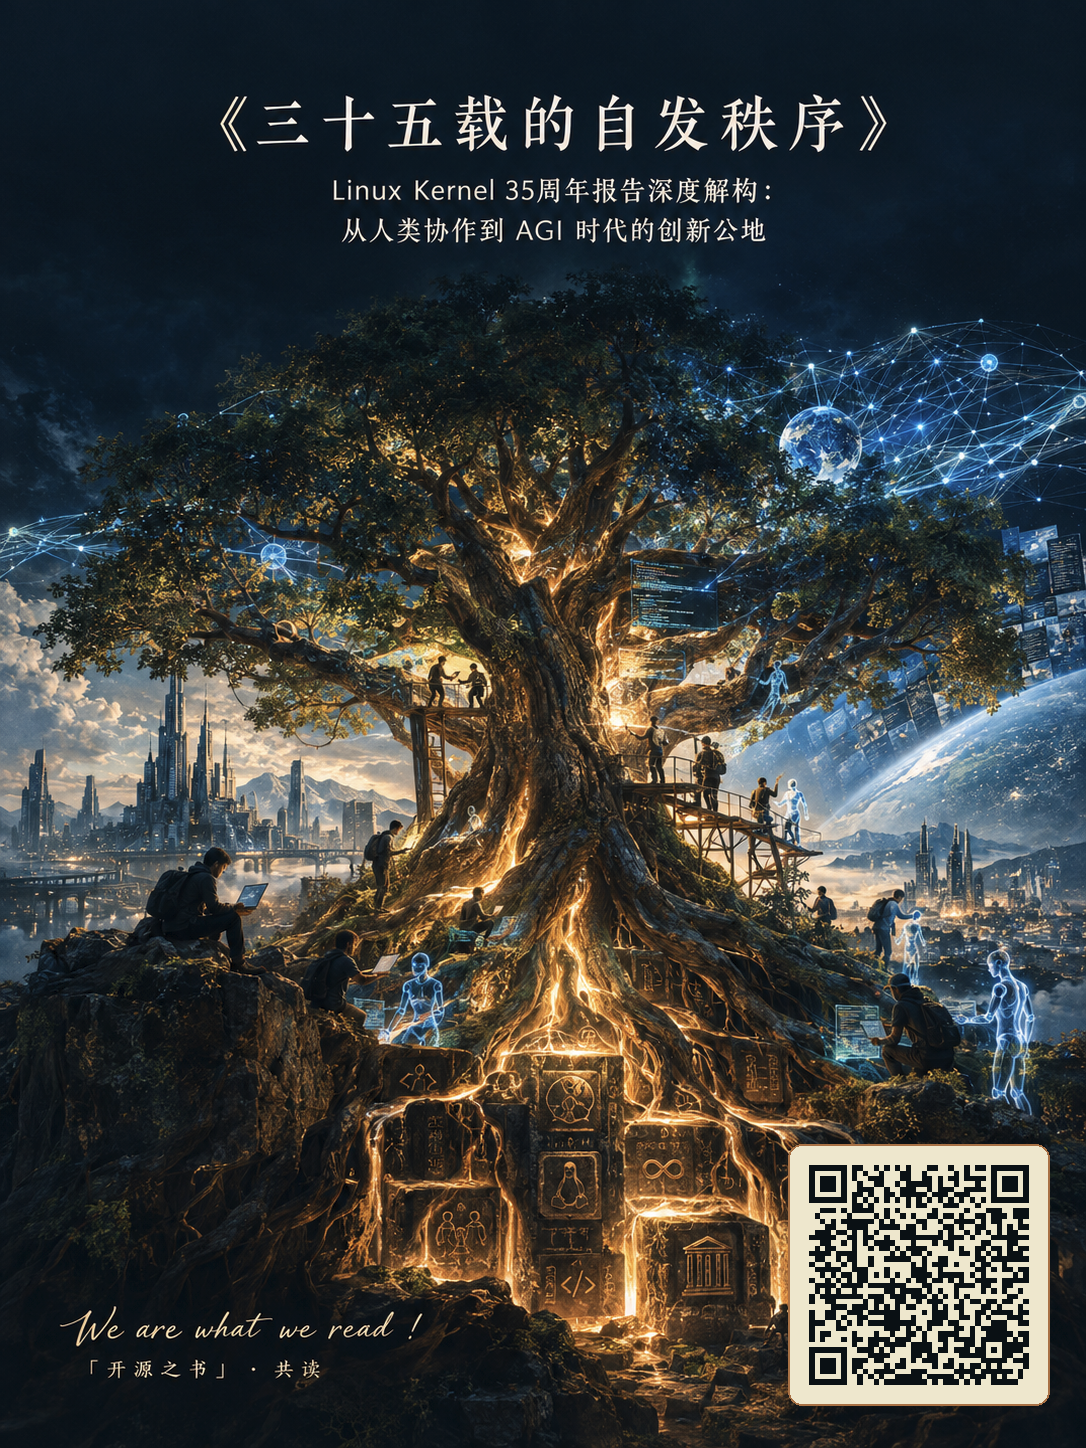
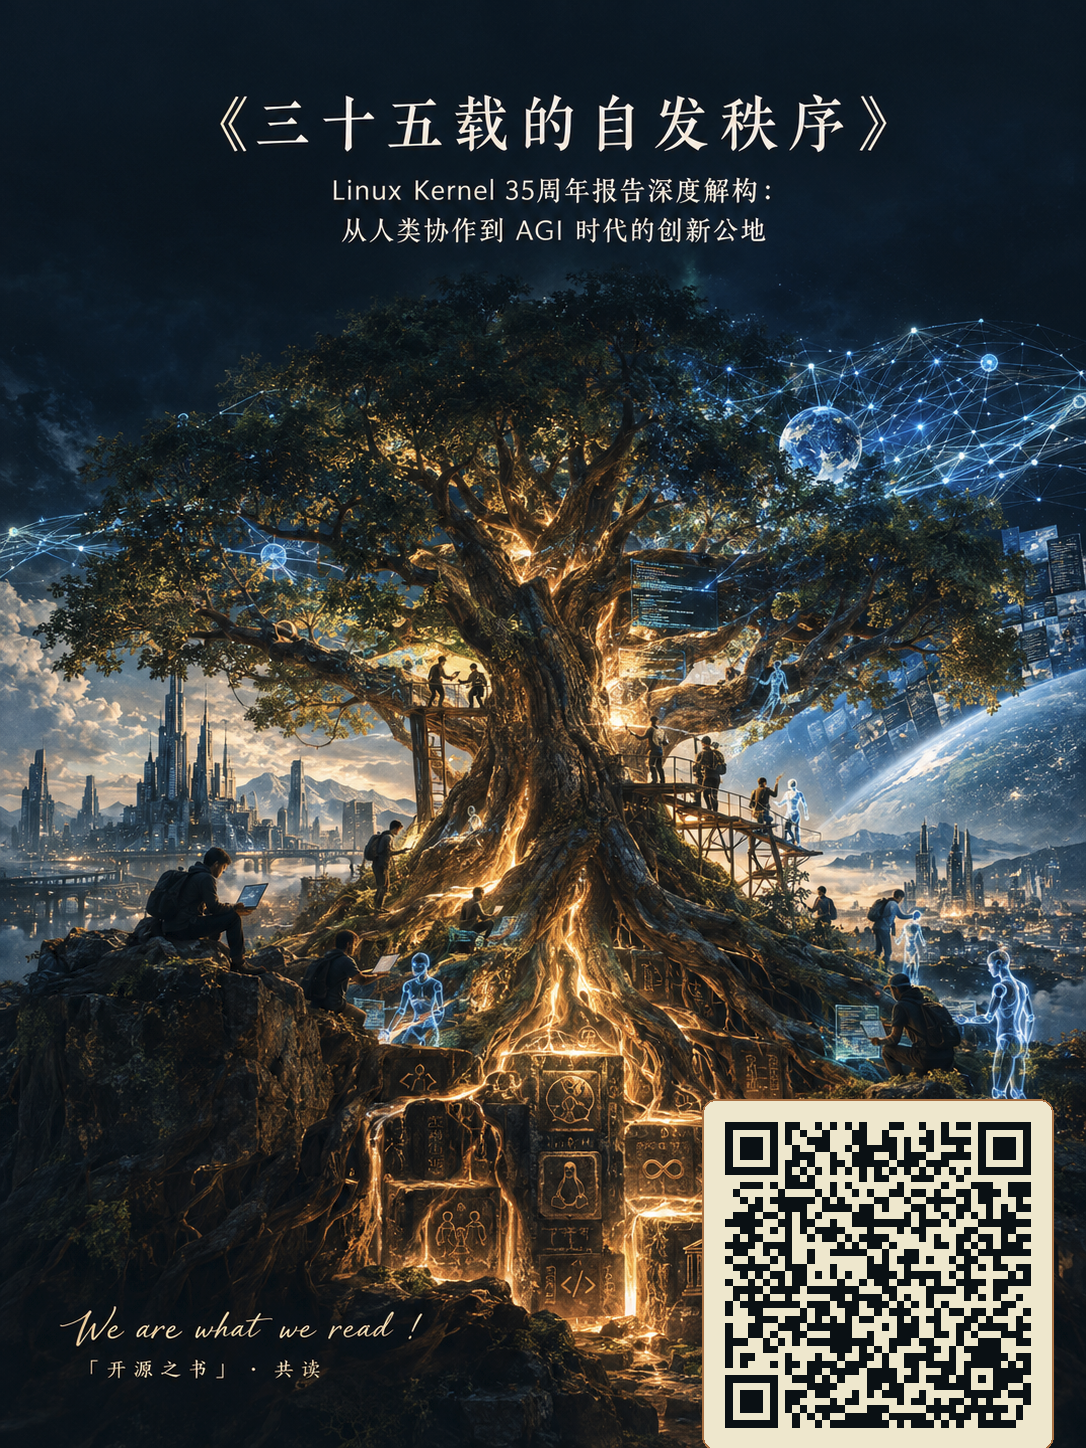
fix(qr): 二维码放大到 320px —— 缩放后仍可扫
上一版 230px 原图可扫，但缩到 50%（手机整屏显示的实际状态）就扫不出。

实测尺寸 × 缩放矩阵（footer-right 位）：
  size  原图  80%  60%  50%  40%
   230   ✅   ✅   ✅   ❌   ❌
   280   ✅   ✅   ❌   ✅   ❌
   320   ✅   ✅   ✅   ✅   ✅   ← 唯一全档通过
   360   ✅   ✅   ✅   ❌   ❌
   400   ❌   ❌   ❌   ❌   ❌   ← 过大反被画面其它高对比结构干扰

320px 是这块位置的安全值，已设为脚本默认。

自检同步升级：decode_check 现在默认额外验证 50% 缩放，
避免再交付「原图能扫、手机上扫不出」的码。

Changed region(s): [[0.6381, 0.7459, 0.9724, 1.0]]

diff --git a/scripts/poster-qr.py b/scripts/poster-qr.py
@@ -193,7 +193,12 @@ def compose(im, qr_img, size, margin, anchor, radius, quiet, frame=None):
     return base, (x, y, size, size)
 
 
-def decode_check(path, expect):
+def decode_check(path, expect, scales=(0.5,)):
+    """解码自检。
+
+    不只测原图 —— 海报在手机上会整屏缩放显示，
+    实际扫码时相当于缩小后的图。按 scales 逐个缩放再解码。
+    """
     try:
         import cv2
     except ImportError:
@@ -201,11 +206,21 @@ def decode_check(path, expect):
     img = cv2.imread(str(path))
     if img is None:
         return False, "读图失败"
-    data, _, _ = cv2.QRCodeDetector().detectAndDecode(img)
+
+    det = cv2.QRCodeDetector()
+    data, _, _ = det.detectAndDecode(img)
     if not data:
-        return False, "未识别到二维码"
+        return False, "原图未识别到二维码"
     if data.strip() != expect.strip():
         return False, f"内容不符：{data[:60]}"
+
+    h, w = img.shape[:2]
+    for sc in scales:
+        small = cv2.resize(img, (max(1, int(w * sc)), max(1, int(h * sc))),
+                           interpolation=cv2.INTER_AREA)
+        d, _, _ = det.detectAndDecode(small)
+        if d.strip() != expect.strip():
+            return False, f"缩放到 {int(sc*100)}% 后扫不出（手机整屏显示时会失败）"
     return True, data
 
 
@@ -219,7 +234,8 @@ def main():
                     help="模块颜色 #RRGGBB；不填则从海报深色端自动取")
     ap.add_argument("--light", default=None,
                     help="底色 #RRGGBB；不填则从海报浅色端自动取")
-    ap.add_argument("--size", type=int, default=300, help="二维码边长像素（默认 300）")
+    ap.add_argument("--size", type=int, default=320,
+                    help="二维码边长像素（默认 320；实测 320 在 50%% 缩放下仍可扫）")
     ap.add_argument("--margin", type=int, default=60, help="距海报边缘像素（默认 60）")
     ap.add_argument("--anchor", default="auto", choices=list(ANCHORS) + ["auto"],
                     help="落点；auto 自动挑最平坦的角并逐个试到可扫（默认 auto）")
@@ -227,6 +243,8 @@ def main():
     ap.add_argument("--quiet", type=int, default=16, help="静区宽度（默认 16）")
     ap.add_argument("--frame", nargs="?", const="auto", default="auto",
                     help="面板描边颜色；auto=取海报古铜金，none=不描边")
+    ap.add_argument("--scales", default="0.5",
+                    help="自检时额外验证的缩放比，逗号分隔（默认 0.5；空=只测原图）")
     ap.add_argument("--no-verify", action="store_true", help="跳过解码自检")
     args = ap.parse_args()
 
@@ -279,7 +297,11 @@ def main():
                                args.radius, args.quiet, frame)
         result.save(out, quality=95)
 
-        ok, msg = (None, "已跳过") if args.no_verify else decode_check(out, args.url)
+        if args.no_verify:
+            ok, msg = None, "已跳过"
+        else:
+            sc = tuple(float(v) for v in args.scales.split(",") if v.strip())
+            ok, msg = decode_check(out, args.url, sc)
         dh = f"#{dark[0]:02X}{dark[1]:02X}{dark[2]:02X}"
         lh = f"#{light[0]:02X}{light[1]:02X}{light[2]:02X}"
 
